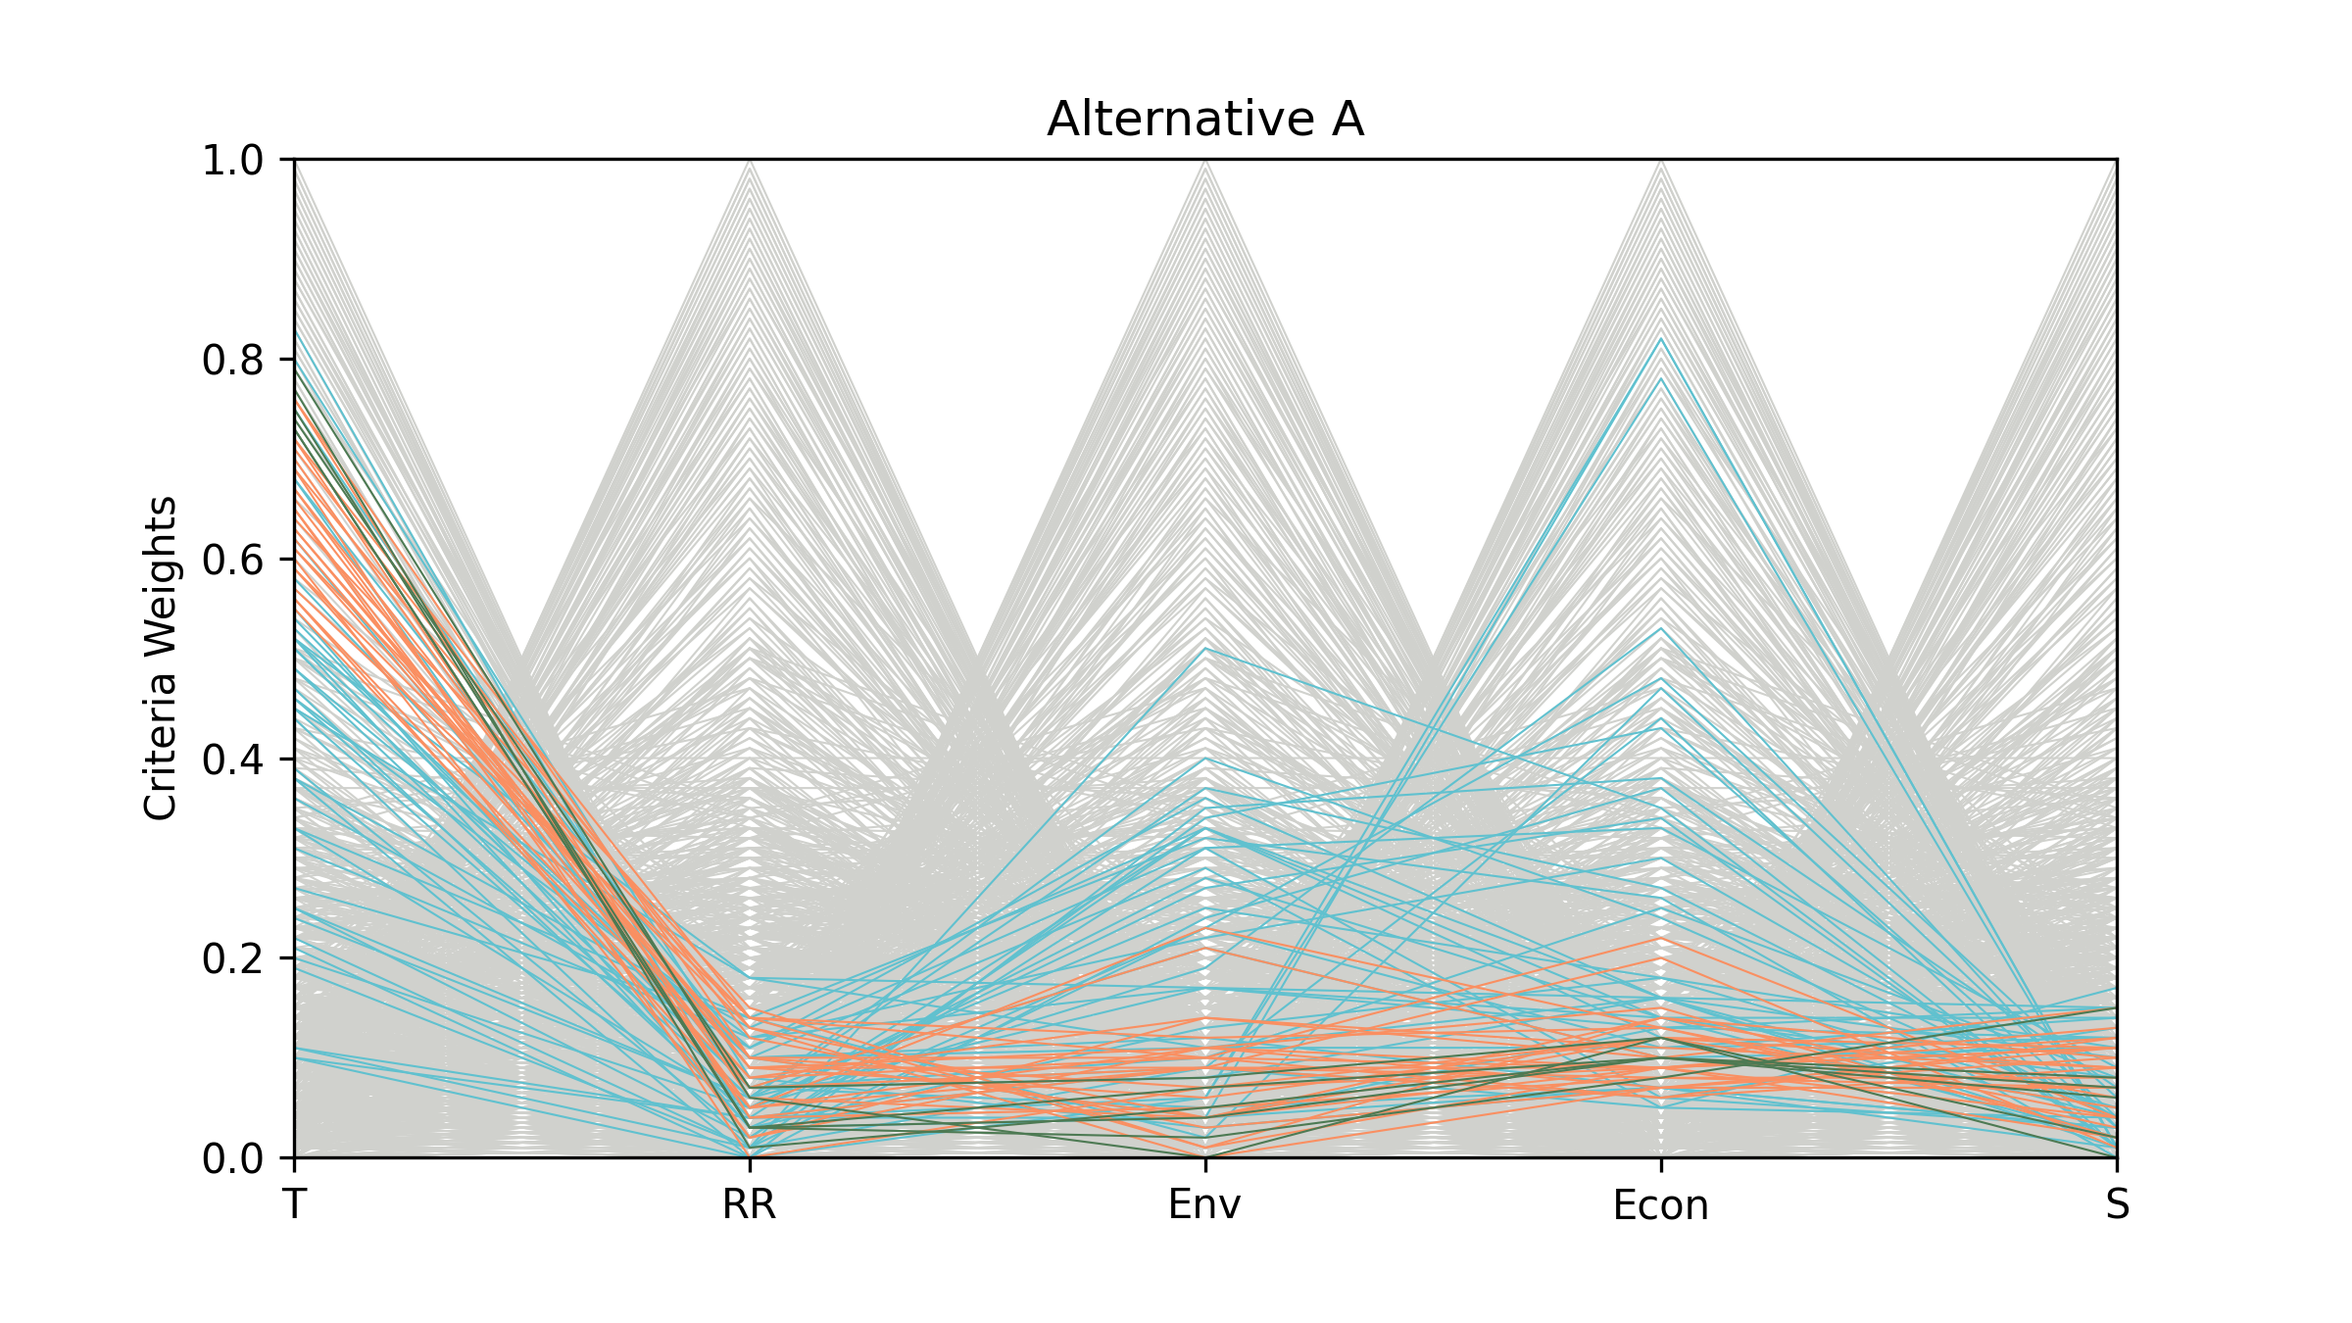
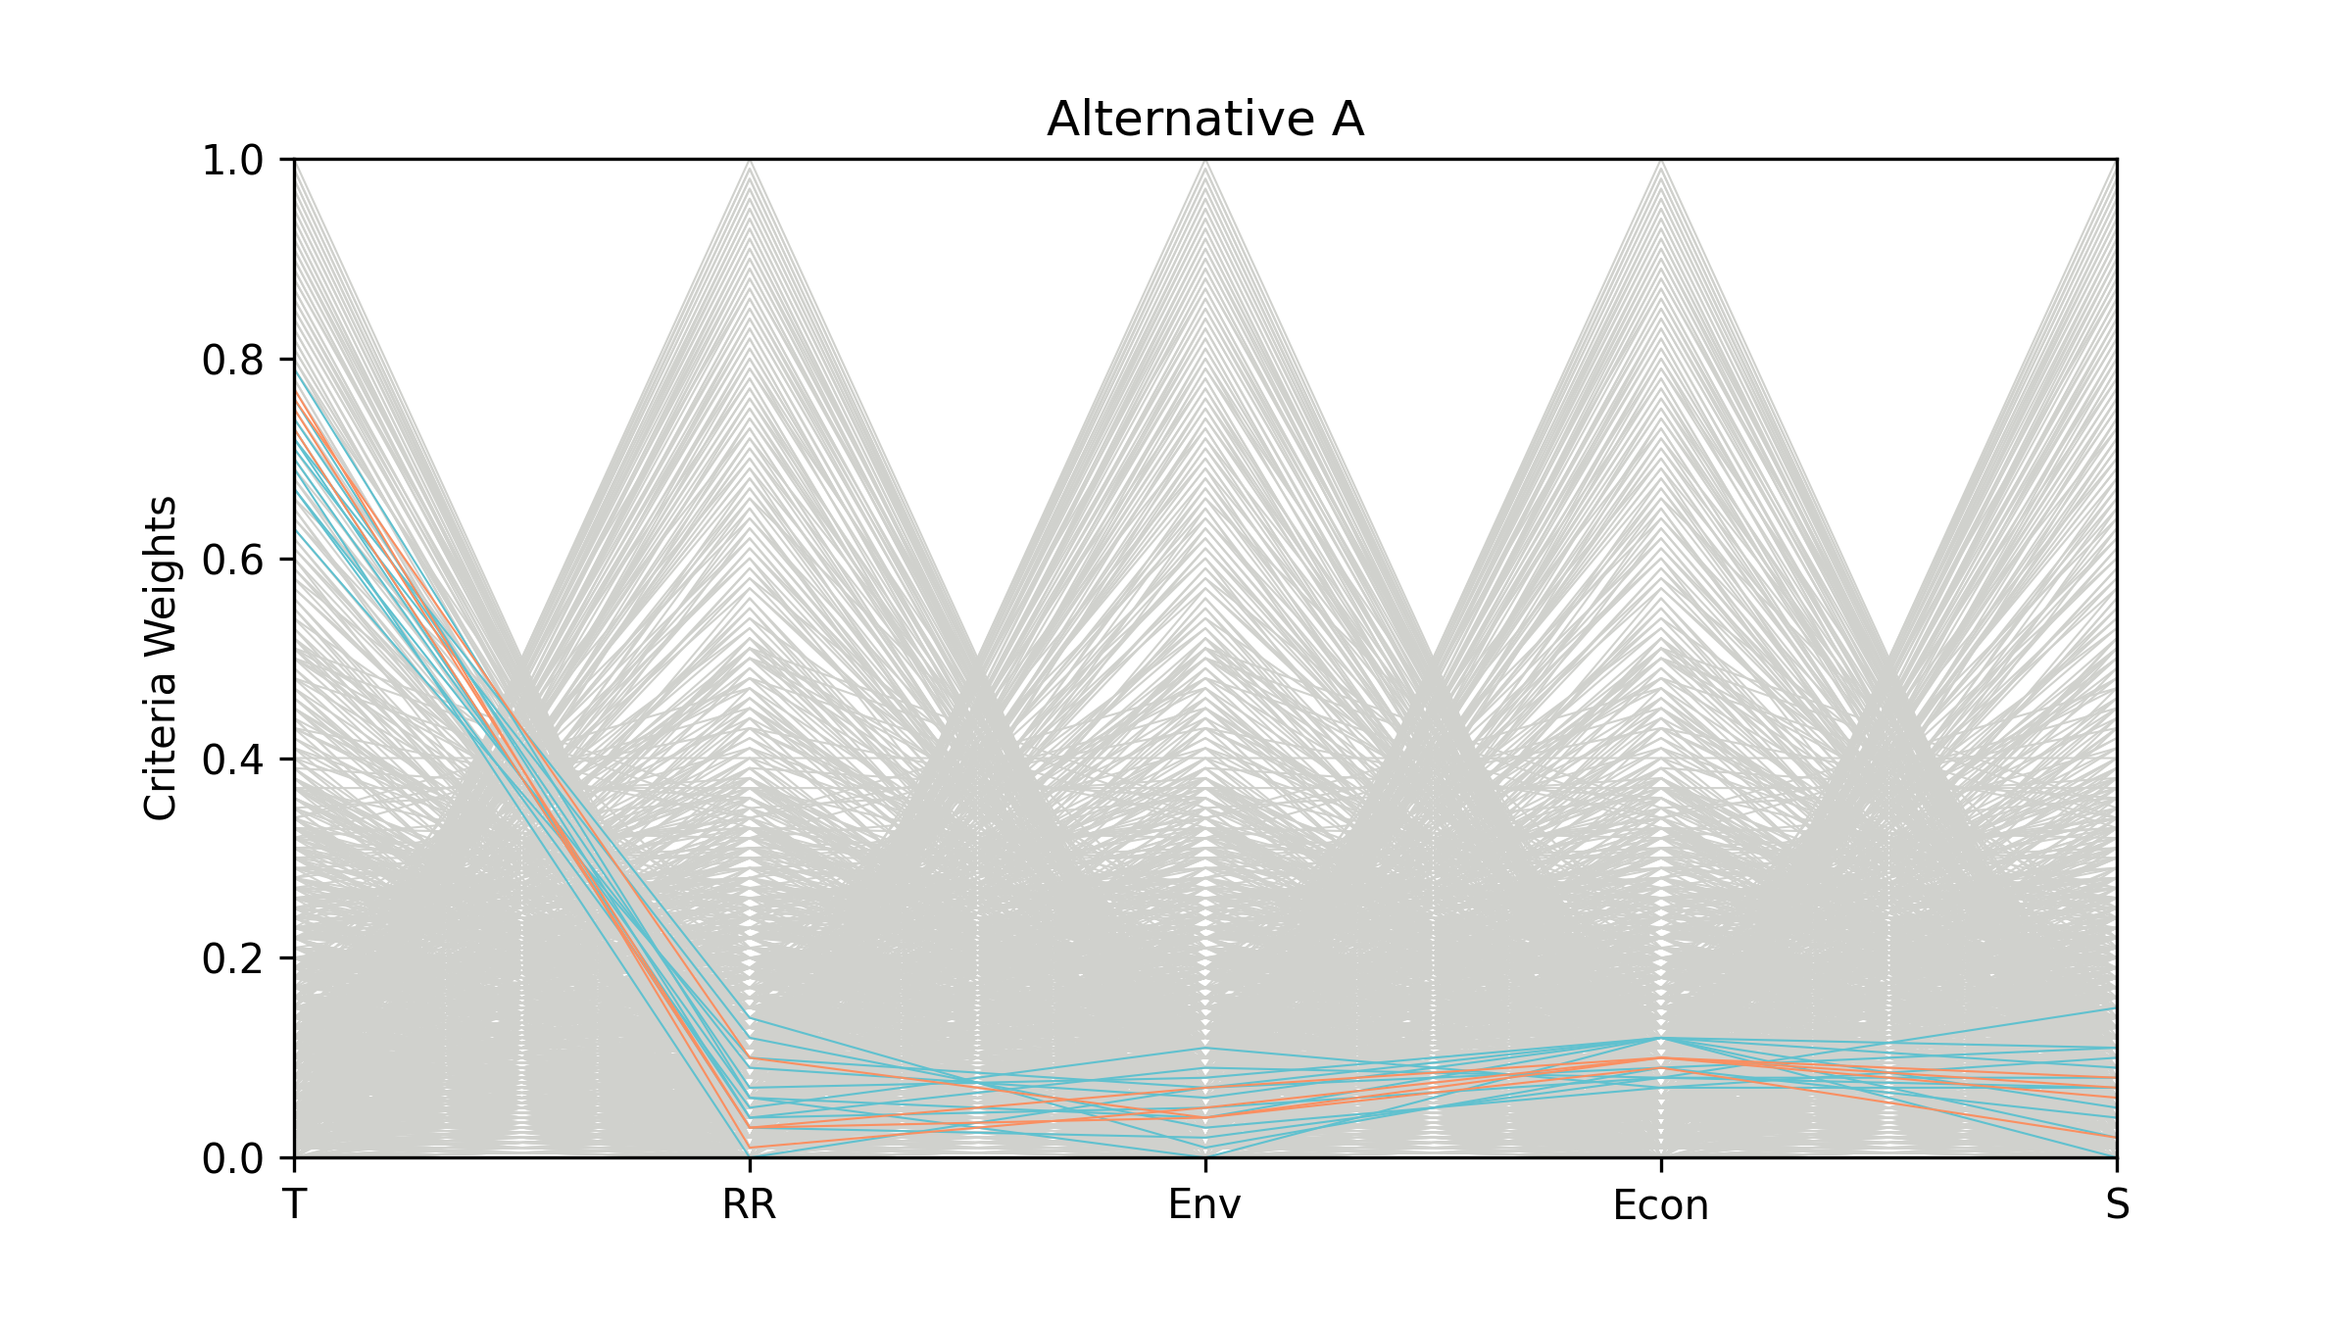
refresh line graphs, remove legacy codes, fix minor notes

diff --git a/dmsan/bwaise/uncertainty_sensitivity.py b/dmsan/bwaise/uncertainty_sensitivity.py
@@ -3,14 +3,13 @@
 """
 @authors:
     Yalin Li <zoe.yalin.li@gmail.com>
-    Joy Cheung <joycheung1994@gmail.com>
+    Joy Zhang <joycheung1994@gmail.com>
 
 Run this module for uncertainty and sensitivity analyses.
 
 Two layers of uncertainties are considered in the final performance score:
     1. Ones due to the input parameters in system simulation, which will change
-    the technology scores of some indicators
-
+    the technology scores of some indicators.
     2. Ones due to the global weights of different criteria.
 
 Note that uncertainties in the local weights can also be included if desired,
@@ -18,9 +17,9 @@ some of the legacy codes herein added uncertainties to the social criterion,
 but doing so with all other uncertainties will add too much complexity and
 create difficulties in identifying the drivers of the results, thus not included.
 
-Part of this module is based on the BioSTEAM and QSD packages:
-    - https://github.com/BioSTEAMDevelopmentGroup/biosteam
+Part of this module is based on the QSDsan and BioSTEAM packages:
     - https://github.com/QSD-group/QSDsan
+    - https://github.com/BioSTEAMDevelopmentGroup/biosteam
 """
 
 import os
@@ -473,164 +472,3 @@ def run_analyses(save_excel=False):
 
 if __name__ == '__main__':
     run_analyses(False)
-
-
-# %%
-
-# =============================================================================
-# Below are legacy codes, might be removed in the future
-# =============================================================================
-
-# # Legacy codes used to include uncertainties in three local weights
-# # of the social criterion.
-# # The same number of local weight samples are generated as ones for system simulation.
-# @time_printer
-# def get_AHP_weights(N):
-#     # Baseline for S4-S6 (cleaning preference, privacy, odor and flies)
-#     b = np.array(bwaise_ahp.init_weights['S'][3:6])
-#     b = np.tile(b, (N, 1))
-#     lower = b * 0.75 # 75% of b as the lower bound
-#     diff = b * 0.5 # 125% of b as the upper bound minus the lower bound
-#     ahp_sampler = stats.qmc.LatinHypercube(d=3, seed=rng)
-#     ahp_sample = ahp_sampler.random(n=N)
-
-#     S_val_samples = lower + diff*ahp_sample
-
-#     AHP_dct = {}
-#     for i in range(N):
-#         bwaise_ahp.init_weights['S'][3:6] = S_val_samples[i]
-#         AHP_dct[i] = bwaise_ahp.get_AHP_weights(True)
-
-#     return AHP_dct
-
-
-# def run_correlation_test(input_x, input_y, kind,
-#                          nan_policy='omit', file_path='', **kwargs):
-#     '''
-#     Get correlation coefficients between two inputs using `scipy`.
-
-#     Parameters
-#     ----------
-#     input_x : :class:`pandas.DataFrame`
-#         The first set of input (typically uncertainty parameters).
-#     input_y : :class:`pandas.DataFrame`
-#         The second set of input (typicall scores or ranks).
-#     kind : str
-#         The type of test to run, can be "Spearman" for Spearman's rho,
-#         "Pearson" for Pearson's r, "Kendall" for Kendall's tau,
-#         or "KS" for Kolmogorov–Smirnov's D.
-
-#         .. note::
-#             If running KS test, then input_y should be the ranks (i.e., not scores),
-#             the x inputs will be divided into two groups - ones that results in
-#             a given alternative to be ranked first vs. the rest.
-
-#     nan_policy : str
-#         - "propagate": returns nan.
-#         - "raise": raise an error.
-#         - "omit": drop the pair from analysis.
-
-#         .. note::
-#             This will be ignored for when `kind` is "Pearson" or "Kendall"
-#             (not supported by `scipy`).
-
-#     file_path : str
-#         If provided, the results will be saved as a csv file to the given path.
-#     kwargs : dict
-#         Other keyword arguments that will be passed to ``scipy``.
-
-#     Returns
-#     -------
-#     Two :class:`pandas.DataFrame` containing the test statistics and p-values.
-
-#     See Also
-#     --------
-#     :func:`scipy.stats.spearmanr`
-
-#     :func:`scipy.stats.pearsonr`
-
-#     :func:`scipy.stats.kendalltau`
-
-#     :func:`scipy.stats.kstest`
-#     '''
-#     df = pd.DataFrame(input_x.columns,
-#                       columns=pd.MultiIndex.from_arrays([('',), ('Parameter',)],
-#                                                         names=('Y', 'Stats')))
-
-#     name = kind.lower()
-#     if name == 'spearman':
-#         func = stats.spearmanr
-#         stats_name = 'rho'
-#         kwargs['nan_policy'] = nan_policy
-#     elif name == 'pearson':
-#         func = stats.pearsonr
-#         stats_name = 'r'
-#     elif name == 'kendall':
-#         func = stats.kendalltau
-#         stats_name = 'tau'
-#         kwargs['nan_policy'] = nan_policy
-#     elif name == 'ks':
-#         if not int(input_y.iloc[0, 0])==input_y.iloc[0, 0]:
-#             raise ValueError('For KS test, `input_y` should be the ranks, not scores.')
-
-#         func = stats.kstest
-#         stats_name = 'D'
-
-#         alternative = kwargs.get('alternative') or 'two_sided'
-#         mode = kwargs.get('mode') or 'auto'
-#     else:
-#         raise ValueError('kind can only be "Spearman", "Pearson", '
-#                         f'or "Kendall", not "{kind}".')
-
-#     for col_y in input_y.columns:
-#         if name == 'ks':
-#             y = input_y[col_y]
-#             i_win, i_lose = input_x.loc[y==1], input_x.loc[y!=1]
-
-#             if len(i_win) == 0 or len(i_lose) == 0:
-#                 df[(col_y, stats_name)] = df[(col_y, 'p-value')] = None
-#                 continue
-
-#             else:
-#                 data = np.array([func(i_win.loc[:, col_x], i_lose.loc[:, col_x],
-#                                   alternative=alternative, mode=mode, **kwargs) \
-#                                  for col_x in input_x.columns])
-#         else:
-#             data = np.array([func(input_x[col_x], input_y[col_y], **kwargs)
-#                              for col_x in input_x.columns])
-
-#         df[(col_y, stats_name)] = data[:, 0]
-#         df[(col_y, 'p-value')] = data[:, 1]
-
-#     if file_path:
-#         df.to_csv(file_path, sep='\t')
-#     return df
-
-
-# @time_printer
-# def run_uncertainty_mcda(mcda, criteria_weights=None, tech_score_dct={}):
-#     if criteria_weights is None:
-#         criteria_weights = mcda.criteria_weights
-
-#     score_df_dct, rank_df_dct, winner_df_dct = {}, {}, {}
-#     for n, w in criteria_weights.iterrows():
-#         scores, ranks, winners = [], [], []
-
-#         for k, v in tech_score_dct.items():
-#             # # Legacy code to update local weights calculated from AHP
-#             # bwaise_ahp._norm_weights_df = AHP_dct[k]
-
-#             mcda.tech_scores = v
-#             mcda.run_MCDA(criteria_weights=w)
-#             scores.append(mcda.perform_scores)
-#             ranks.append(mcda.ranks)
-#             winners.append(mcda.winners.Winner.values.item())
-
-#         name = w.Ratio
-#         score_df_dct[name] = pd.concat(scores).reset_index(drop=True)
-#         rank_df_dct[name] = pd.concat(ranks).reset_index(drop=True)
-#         winner_df_dct[name] = winners
-
-#     winner_df = pd.DataFrame.from_dict(winner_df_dct)
-
-#     return score_df_dct, rank_df_dct, winner_df

diff --git a/dmsan/bwaise/line_graph.py b/dmsan/bwaise/line_graph.py
@@ -68,7 +68,7 @@ def make_line_graph1(winner_df, alt, cutoffs=[0.25, 0.5, 0.75, 1],
             continue
 
         # Transpose the shape into that needed for plotting, the shape is
-        # (# of the weighing aspects (e.g., technical vs. economic), # of over/under the criterion),
+        # (number of the weighing aspects (e.g., technical vs. economic), number of over/under the criterion),
         # when used in plotting the line graph, each row will be the y-axis value of the line
         # (x-axis value represents the N criteria)
         ax.plot(wt.transpose(), color=colors[idx], linewidth=0.5)
@@ -175,7 +175,7 @@ def make_line_graph3(winner_df):
                xticklabels=('T', 'RR', 'Env', 'Econ', 'S'))
         figs.append(fig)
         axes.append(ax)
-        
+
     return figs, axes
 
 
@@ -189,24 +189,24 @@ def make_line_graphs(save=True):
     global fig1A, ax1A, fig1B, ax1B, fig1C, ax1C, \
         fig2A, ax2A, fig2B, ax2B, fig2C, ax2C, fig2D, ax2D, figs, axes
 
-    # fig1A, ax1A = make_line_graph1(winner_df, 'Alternative A', include_legend=False)
-    # fig1B, ax1B = make_line_graph1(winner_df, 'Alternative B', include_legend=False)
-    # fig1C, ax1C = make_line_graph1(winner_df, 'Alternative C', include_legend=False)
-    # fig2A, ax2A = make_line_graph2A(winner_df, 'Alternative A', 'Reds')
-    # fig2B, ax2B = make_line_graph2A(winner_df, 'Alternative B', 'Greens')
-    # fig2C, ax2C = make_line_graph2A(winner_df, 'Alternative C', 'Blues')
-    # fig2D, ax2D = make_line_graph2B(winner_df)
+    fig1A, ax1A = make_line_graph1(winner_df, 'Alternative A', include_legend=False)
+    fig1B, ax1B = make_line_graph1(winner_df, 'Alternative B', include_legend=False)
+    fig1C, ax1C = make_line_graph1(winner_df, 'Alternative C', include_legend=False)
+    fig2A, ax2A = make_line_graph2A(winner_df, 'Alternative A', 'Reds')
+    fig2B, ax2B = make_line_graph2A(winner_df, 'Alternative B', 'Greens')
+    fig2C, ax2C = make_line_graph2A(winner_df, 'Alternative C', 'Blues')
+    fig2D, ax2D = make_line_graph2B(winner_df)
     figs, axes = make_line_graph3(winner_df)
     fig3A, fig3B, fig3C = figs
 
     if save:
-        # fig1A.savefig(os.path.join(figures_path, '1A.png'), dpi=300)
-        # fig1B.savefig(os.path.join(figures_path, '1B.png'), dpi=300)
-        # fig1C.savefig(os.path.join(figures_path, '1C.png'), dpi=300)
-        # fig2A.savefig(os.path.join(figures_path, '2A.png'), dpi=300)
-        # fig2B.savefig(os.path.join(figures_path, '2B.png'), dpi=300)
-        # fig2C.savefig(os.path.join(figures_path, '2C.png'), dpi=300)
-        # fig2D.savefig(os.path.join(figures_path, '2D.png'), dpi=300)
+        fig1A.savefig(os.path.join(figures_path, '1A.png'), dpi=300)
+        fig1B.savefig(os.path.join(figures_path, '1B.png'), dpi=300)
+        fig1C.savefig(os.path.join(figures_path, '1C.png'), dpi=300)
+        fig2A.savefig(os.path.join(figures_path, '2A.png'), dpi=300)
+        fig2B.savefig(os.path.join(figures_path, '2B.png'), dpi=300)
+        fig2C.savefig(os.path.join(figures_path, '2C.png'), dpi=300)
+        fig2D.savefig(os.path.join(figures_path, '2D.png'), dpi=300)
         fig3A.savefig(os.path.join(figures_path, '3A.png'), dpi=300)
         fig3B.savefig(os.path.join(figures_path, '3B.png'), dpi=300)
         fig3C.savefig(os.path.join(figures_path, '3C.png'), dpi=300)

diff --git a/dmsan/bwaise/scenario.py b/dmsan/bwaise/scenario.py
@@ -325,7 +325,7 @@ if __name__ == '__main__':
 # %%
 
 # =============================================================================
-# Legacy codes not in use
+# If want to consider uncertainties with different criteria weight scenarios
 # =============================================================================
 
 # import seaborn as sns
@@ -392,7 +392,7 @@ if __name__ == '__main__':
 #     ax0 = plot_across_axis(Cwin_across_cost, include_simulation_uncertainties=False)
 #     ax0.figure.savefig(os.path.join(figures_path, 'Cwin_across_cost.png'), dpi=100)
 
-#     # **Each** step takes ~1 hour (at each step, we are runnin 1000 simulation*1000 global weights)
+#     # **Each** step takes ~1 hour (at each step, we are running 1000 simulation*1000 global weights)
 #     Cwin_across_cost_uncertainty = test_across_axis(bwaise_mcda, alt='Alternative C',
 #                                                     indicator='Econ1',
 #                                                     include_simulation_uncertainties=True,

diff --git a/dmsan/_ahp.py b/dmsan/_ahp.py
@@ -10,7 +10,7 @@
 This model is developed to assist sanitation system research, development, and
 deployment. Users of the model need to manually input where exclamation points
 (!) are located in the comments (i.e. location, number of alternatives, etc.,
-end-user and/or management preference socres, etc.).
+end-user and/or management preference scores, etc.).
 """
 
 
@@ -251,7 +251,7 @@ class AHP:
         '''Analytic hierarchy process (AHP) to determine indicators weights.'''
         RI = self.random_index
         norm_weights = self.norm_weights = {} # sub-criteria weights
-        CRs = self.CRs = {} # consistency ration
+        CRs = self.CRs = {} # consistency ratio
 
         for indicator, weights in self.init_weights.items():
             num = len(weights)

diff --git a/setup.py b/setup.py
@@ -2,7 +2,7 @@
 # -*- coding: utf-8 -*-
 
 '''
-EXPOsan: Exposition of sanitation and resource recovery systems
+DMsan: Decision-making for sanitation and resource recovery systems
 
 This module is developed by:
     Yalin Li <zoe.yalin.li@gmail.com>
@@ -22,7 +22,7 @@ setup(
     author='Quantitative Sustainable Design Group',
     author_email='quantitative.sustainable.design@gmail.com',
     description='Leverages MCDA to compare technologies within a context and explore opportunity spaces for RD&D',
-    long_description=open('README.rst').read(),
+    long_description=open('README.rst', encoding='utf-8').read(),
     url="https://github.com/QSD-Group/DMsan",
     install_requires=['exposan', 'country-converter'],
     package_data=

diff --git a/dmsan/_mcda.py b/dmsan/_mcda.py
@@ -6,6 +6,8 @@
     Hannah Lohman <hlohman94@gmail.com>,
     Stetson Rowles <stetsonsc@gmail.com>,
     Yalin Li <zoe.yalin.li@gmail.com>
+
+This module is used to perform calculate performance score and global sensitivity analysis.
 """
 
 # %%
@@ -30,7 +32,7 @@ class MCDA:
     ----------
     file_path : str
         Path for the Excel data file containing information related to
-        criteria weighing, default path (and file) will be used if not provdided.
+        criteria weighing, default path (and file) will be used if not provided.
     alt_names : Iterable
         Names of the alternative systems under consideration.
     method : str

diff --git a/dmsan/bwaise/ks_result_analysis.py b/dmsan/bwaise/ks_result_analysis.py
@@ -1,7 +1,7 @@
 # -*- coding: utf-8 -*-
 """
 @author:
-    Joy Cheung <joycheung1994@gmail.com>
+    Joy Zhang <joycheung1994@gmail.com>
 
 Run this script to analyze the results from Kolmogorov–Smirnov test.
 """
@@ -11,7 +11,6 @@ import numpy as np
 import matplotlib.pyplot as plt
 import os
 from dmsan.bwaise import scores_path, results_path, figures_path
-# os.chdir("C:/Users/joy_c/Dropbox/PhD/Research/QSD/codes_developing/DMsan/dmsan/bwaise/")
 folder = os.path.join(results_path, 'sensitivity')
 path = "AHP_TOPSIS_KS_ranks.pckl"
 

diff --git a/dmsan/bwaise/param_testing.py b/dmsan/bwaise/param_testing.py
@@ -25,7 +25,7 @@ dfs = dfA, dfB, dfC = [pd.read_excel(param_path, sheet_name=f'Alternative {i}', 
 # "parameters_annotated.xlsx" file and do manual processing there
 @time_printer
 def test_param(save=True):
-    def refresh_param(model): # some parameters will afect other parameters
+    def refresh_param(model): # some parameters will affect other parameters
         for p in model.parameters:
             p.setter(p.baseline)
 

diff --git a/dmsan/bwaise/sys_simulation.py b/dmsan/bwaise/sys_simulation.py
@@ -3,7 +3,7 @@
 """
 @author: Yalin Li <zoe.yalin.li@gmail.com>
 
-Run this module to save the results to the /data folder to avoid repeating
+Run this module to save the results to the /results folder to avoid repeating
 simulating the system.
 """
 

diff --git a/dmsan/_location.py b/dmsan/_location.py
@@ -6,6 +6,8 @@
     Hannah Lohman <hlohman94@gmail.com>,
     Stetson Rowles <stetsonsc@gmail.com>,
     Yalin Li <zoe.yalin.li@gmail.com>
+
+This module is used to import data from the country-specific database.
 """
 
 
